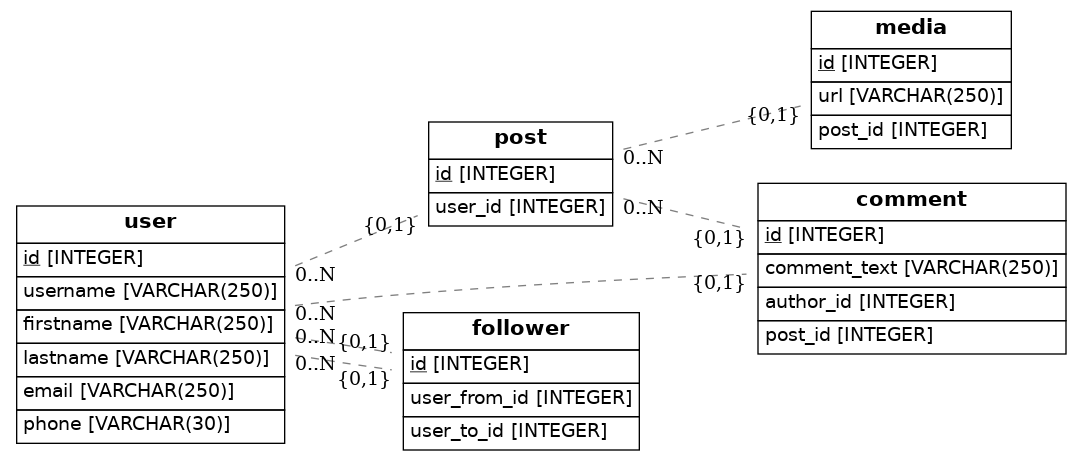
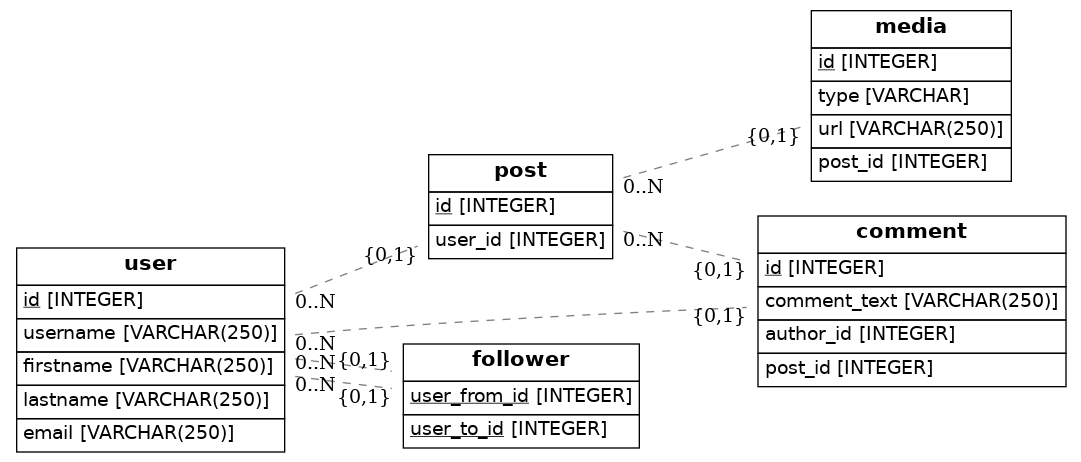
version2

diff --git a/src/models.py b/src/models.py
@@ -1,14 +1,15 @@
-import os
-import sys
+import os 
+import sys 
+import enum
+
 from sqlalchemy import Column, ForeignKey, Integer, String, Enum
-from sqlalchemy.ext.declarative import declarative_base
+from sqlalchemy.ext.declarative import declarative_base 
 from sqlalchemy.orm import relationship
 from sqlalchemy import create_engine
 from eralchemy import render_er
 
 Base = declarative_base()
 
-# crear clases 
 class User(Base):
     __tablename__ = 'user'
     id = Column(Integer, primary_key=True)
@@ -16,18 +17,21 @@ class User(Base):
     firstname = Column(String(250))
     lastname = Column(String(250))
     email = Column(String(250))
-    phone = Column(String(30))
+
 
 class Post(Base):
     __tablename__ = 'post'
     id = Column(Integer, primary_key=True)
     user_id = Column(Integer, ForeignKey('user.id'))
 
+
 class Media(Base):
     __tablename__ = 'media'
     id = Column(Integer, primary_key=True)
+    type = Column(Enum)
     url = Column(String(250))
     post_id = Column(Integer, ForeignKey('post.id'))
+
 
 class Comment(Base):
     __tablename__ = 'comment'
@@ -36,11 +40,12 @@ class Comment(Base):
     author_id = Column(Integer, ForeignKey('user.id'))
     post_id = Column(Integer, ForeignKey('post.id'))
 
+
 class Follower(Base):
     __tablename__ = 'follower'
-    id = Column(Integer, primary_key=True)
-    user_from_id = Column(Integer, ForeignKey("user.id"))
-    user_to_id = Column(Integer, ForeignKey("user.id"))
+    user_from_id = Column(Integer, ForeignKey("user.id"),primary_key=True)
+    user_to_id = Column(Integer, ForeignKey("user.id"),primary_key=True)
+
 
 
 ## Draw from SQLAlchemy base
